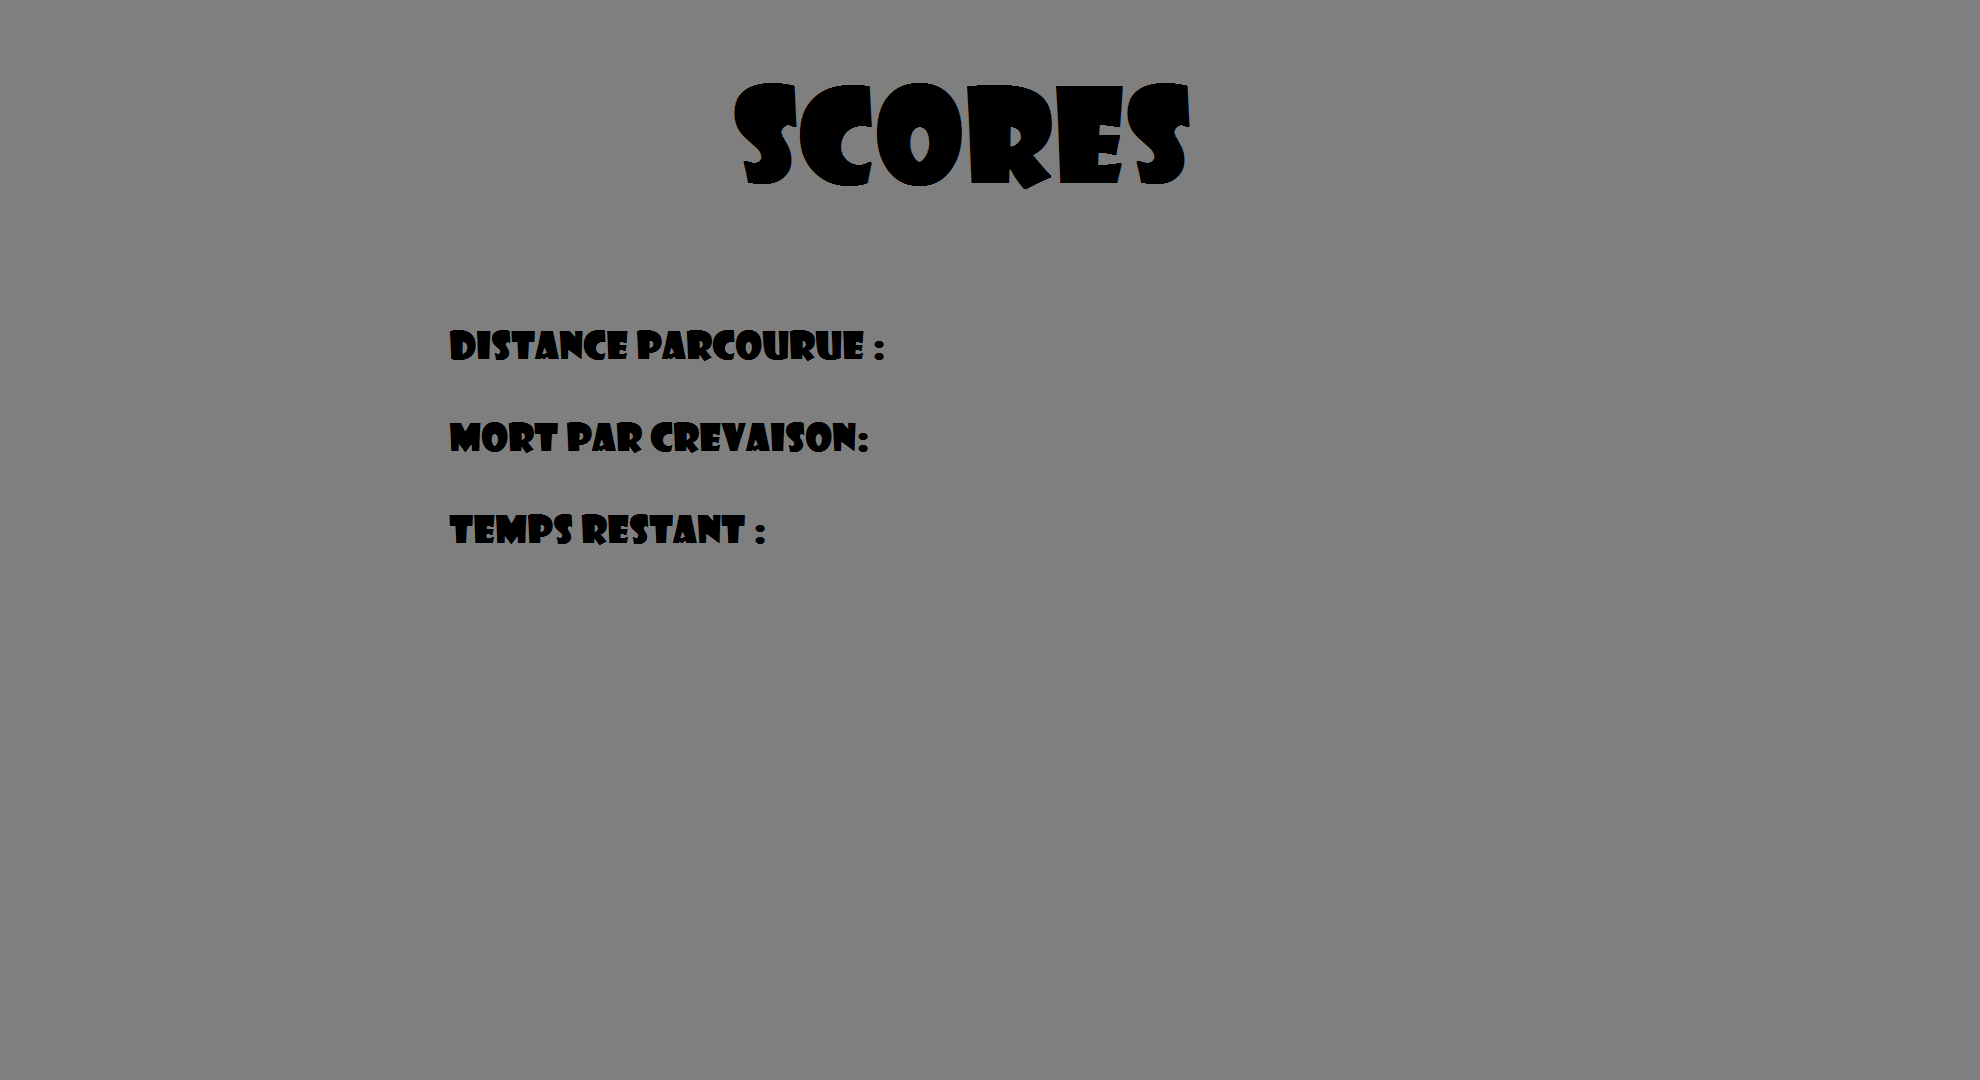
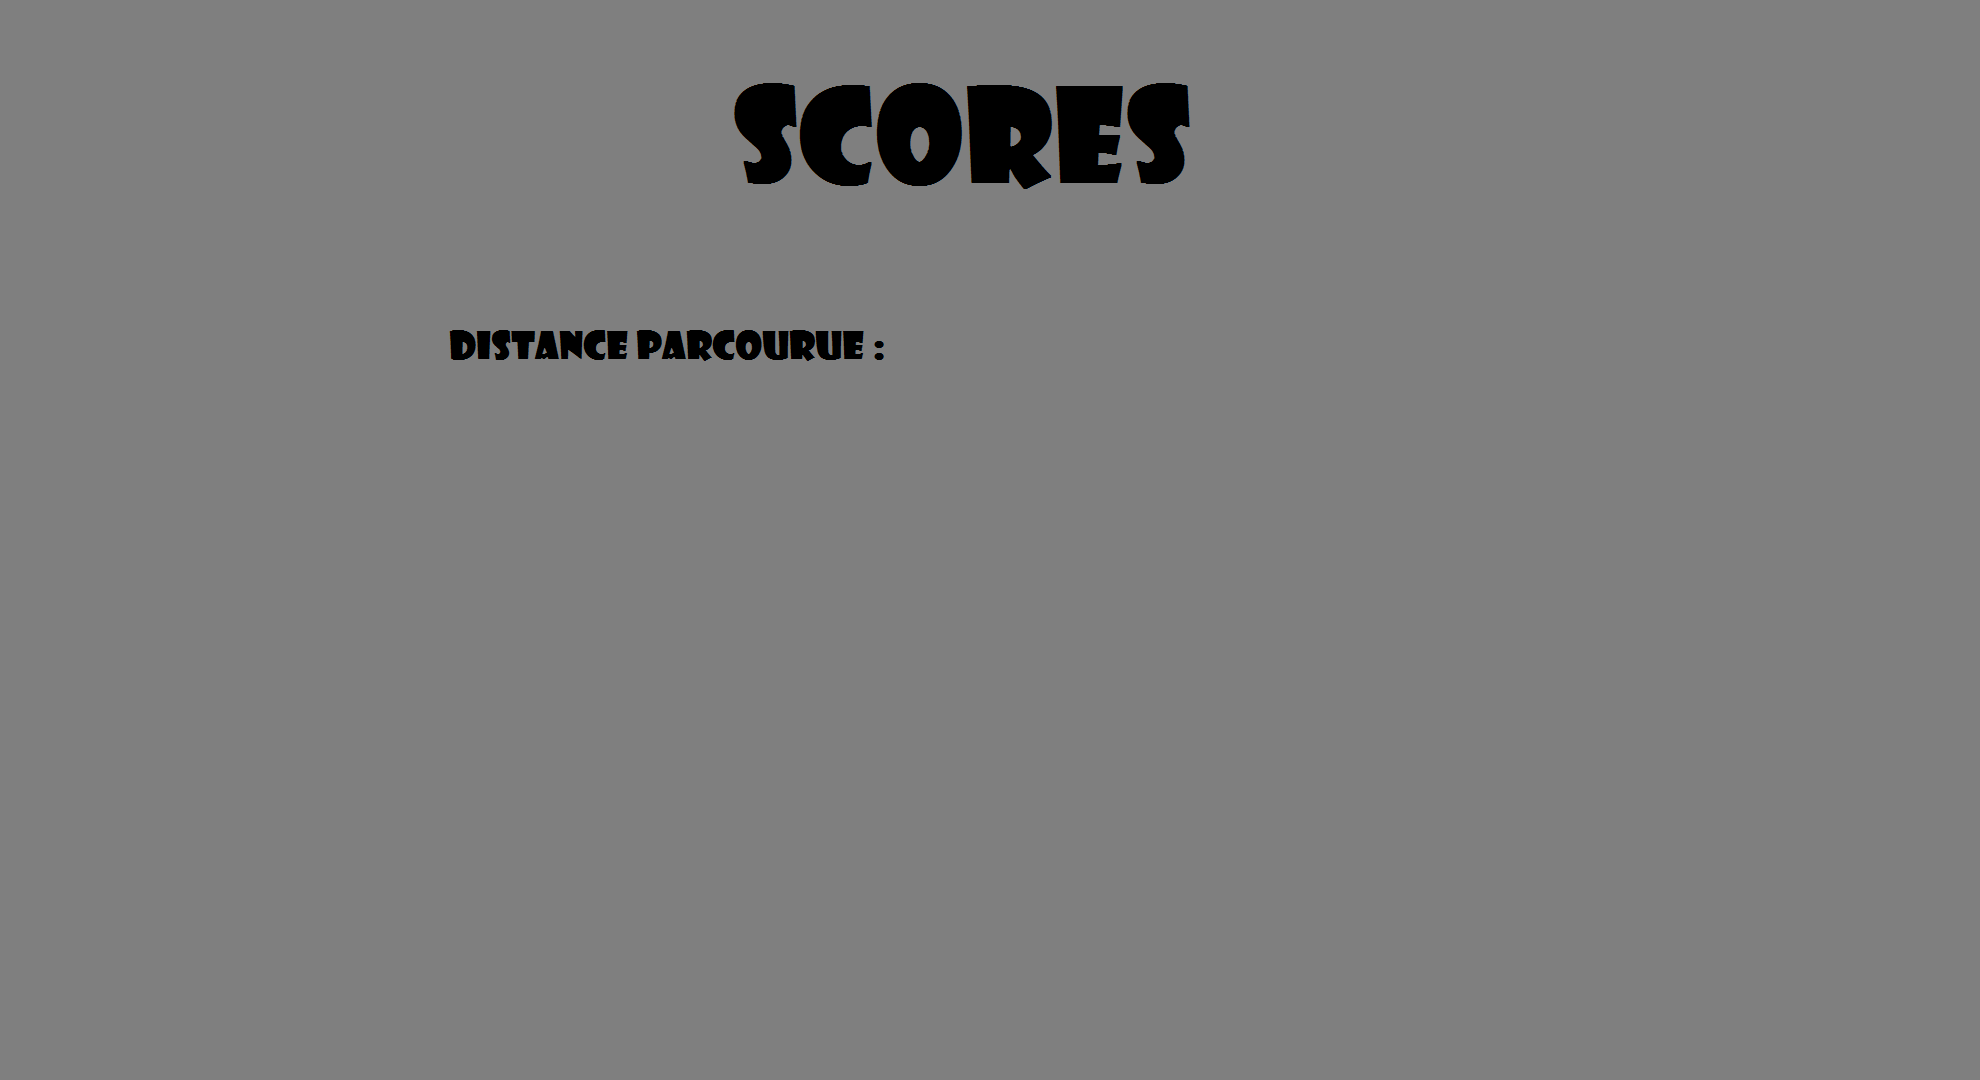
a

Changed region(s): [[0.2157, 0.3667, 0.4313, 0.4278], [0.2157, 0.4583, 0.3697, 0.5194]]

diff --git a/gradle/core/src/com/mygdx/game/MyGdxGame.java b/gradle/core/src/com/mygdx/game/MyGdxGame.java
@@ -46,6 +46,7 @@ public class MyGdxGame extends ApplicationAdapter
 			backgroundScrollBackBackBack1, backgroundScrollBackBackBack2, backgroundSun, voitureS, wheelTurboS1, wheelTurboS2,
 			cloudS1, cloudS2, cloudS3, cloudS4, roueAffichee1, roueAffichee2, phareAffiche, moteurAffiche, lumiereImg, timer,
 			sous_timer, sous_life, life, timeText, lifeText, distanceText;
+
 	List<Image> listClouds;
 	List<Image> obstacles;
 	int scrollingTranslate1 = 0;
@@ -53,7 +54,8 @@ public class MyGdxGame extends ApplicationAdapter
 	int scrollingTranslate3 = 0;
 	int scrollingTranslate4 = 0;
 	int rand1, rand2, rand3, rand4;
-	int distance;
+	int distance, distanceFini;
+	int distScore;
 	Stage stage, menuStage;
 	Texture menuTexture, buttonSelectedTex, buttonNotSelectedTex, buttonStart, buttonStartOn;
 	Actor menu;
@@ -73,14 +75,17 @@ public class MyGdxGame extends ApplicationAdapter
 	Image obstacleCasse;
 	Label distanceScore;
 	Label distanceScoreOld;
+	Label distanceFinal;
 
 	boolean menuOver;
 	boolean cloud1MovingRight, cloud2MovingRight, cloud3MovingRight, cloud4MovingRight;
 	boolean lumOn;
 	boolean timeUp, lifeDown;
+	boolean fini;
 	@Override
 	public void create ()
 	{
+		fini = true;
 		lifeText = new Image(new Texture(Gdx.files.internal("lifeText.png")));
 		timeText = new Image(new Texture(Gdx.files.internal("timeText.png")));
 		distanceText = new Image(new Texture(Gdx.files.internal("distanceText.png")));
@@ -345,6 +350,12 @@ public class MyGdxGame extends ApplicationAdapter
 		//temps fini
 		if(timeUp || lifeDown)
 		{
+			if(fini)
+			{
+				distanceFini = distance;
+				fini = false;
+
+			}
 			Image scores = new Image(new Texture(Gdx.files.internal("scores.png")));
 			scores.setWidth(stage.getWidth());
 			scores.setHeight(stage.getHeight());
@@ -593,7 +604,8 @@ public class MyGdxGame extends ApplicationAdapter
 			distanceScore.setPosition(stage.getWidth()-400,stage.getHeight()-250);
 			distanceText.setPosition(distanceScore.getX(), distanceScore.getY()-30);
 			stage.getActors().removeValue(distanceScoreOld,true);
-			stage.addActor(distanceScore);
+			if(!timeUp && !lifeDown)
+				stage.addActor(distanceScore);
 			stage.addActor(distanceText);
 			distanceScoreOld = distanceScore;
 
@@ -605,7 +617,14 @@ public class MyGdxGame extends ApplicationAdapter
 
 			stage.addActor(sous_life);
 			stage.addActor(life);
+			if(timeUp || lifeDown)
+			{
 
+				distanceFinal = new Label(Integer.toString(distanceFini),textStyle);
+				distanceFinal.setFontScale(3f,3f);
+				distanceFinal.setPosition(stage.getWidth()-850,stage.getHeight()-320);
+				stage.addActor(distanceFinal);
+			}
 		}
 
 		stage.draw();
